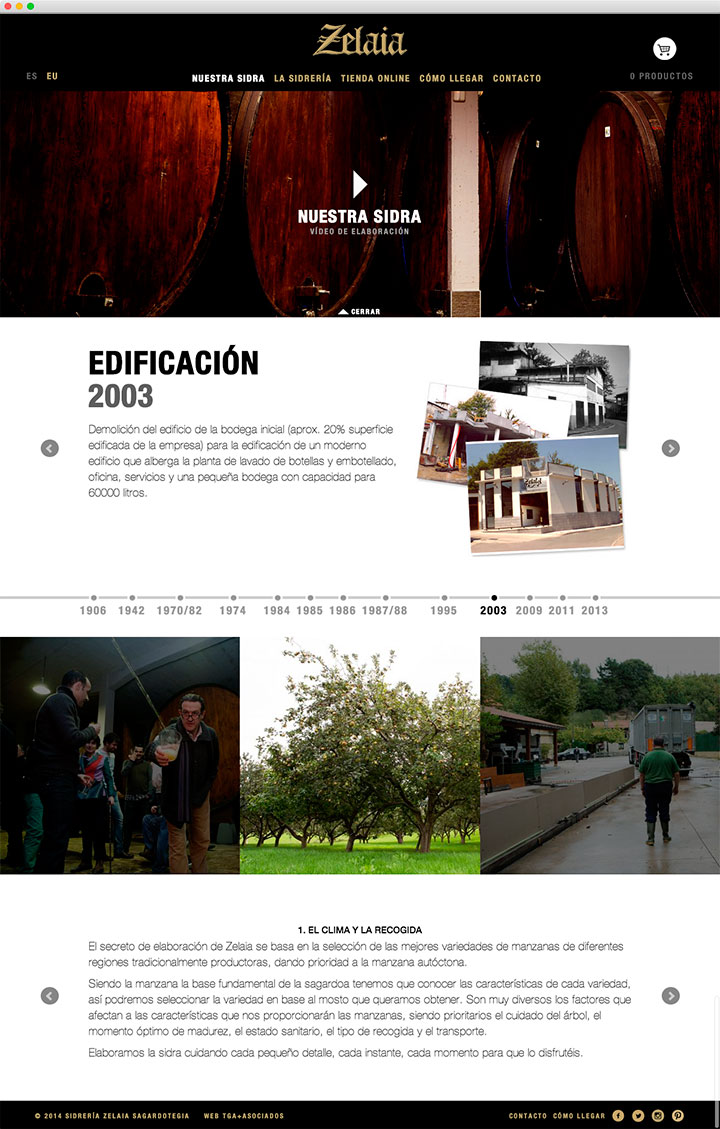
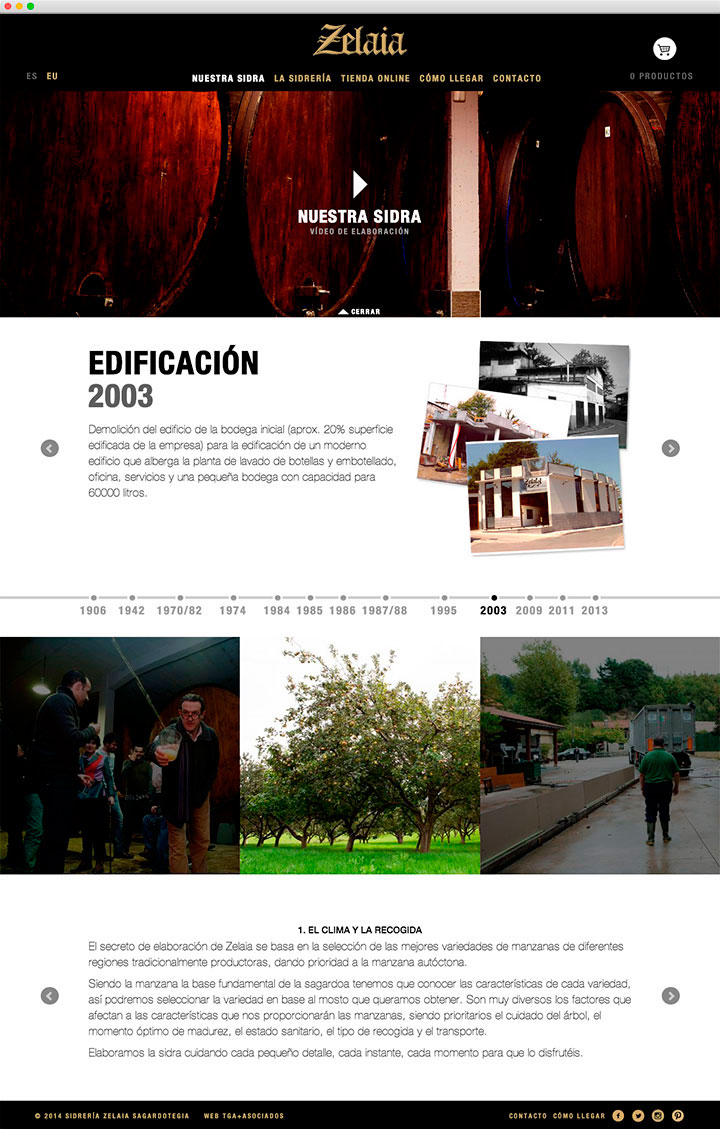
Adjust some styles

Changed region(s): [[0.3361, 0.744, 0.6722, 0.775], [0.2139, 0.062, 0.3056, 0.124], [0.9778, 0.961, 1.0, 1.0]]

diff --git a/web/js/main.js b/web/js/main.js
@@ -1,4 +1,56 @@
+// Avoid `console` errors in browsers that lack a console.
+(function() {
+    'use strict';
+
+    var method;
+    var noop = function () {};
+    var methods = [
+        'assert', 'clear', 'count', 'debug', 'dir', 'dirxml', 'error',
+        'exception', 'group', 'groupCollapsed', 'groupEnd', 'info', 'log',
+        'markTimeline', 'profile', 'profileEnd', 'table', 'time', 'timeEnd',
+        'timeStamp', 'trace', 'warn'
+    ];
+    var length = methods.length;
+    var console = (window.console = window.console || {});
+
+    while (length--) {
+        method = methods[length];
+
+        // Only stub undefined methods.
+        if (!console[method]) {
+            console[method] = noop;
+        }
+    }
+})();
+
 $(document).ready(function() {
+
+    // ==================== HEADER SIZE ==================== //
+    var $navbar = $('.navbar'),
+        opts = {
+            height: '35px'
+        },
+        speed = 600;
+
+    $(function(){
+        $navbar.data('size','big');
+    });
+
+    $(window).scroll(function() {
+        if($(document).scrollTop() > 0) {
+            if($navbar.data('size') === 'big') {
+                $navbar.data('size', 'small');
+                $navbar.find('.logo img').stop().animate(opts, speed);
+            }
+        } else {
+            if($navbar.data('size') === 'small') {
+                $navbar.data('size', 'big');
+                $navbar.find('.logo img').stop().animate({
+                    height: '75px'
+                }, speed);
+            }
+        }
+    });
 
     // ==================== WOW ANIMATION DELAY ==================== //
     wow = new WOW({
@@ -14,15 +66,21 @@ $(document).ready(function() {
         itemSelector: '.project'
     });
 
+    // ==================== SCROLL ==================== //
     $('a[href*=#]:not([href=#])').click(function() {
+        var $this = $(this),
+            offset = $('body').data('offset');
+
         if (location.pathname.replace(/^\//,'') === this.pathname.replace(/^\//,'')
             && location.hostname == this.hostname)
         {
             var target = $(this.hash);
+
+            offset = (parseInt(target.offset().top) === offset)? offset : 105;
             target = target.length ? target : $('[name=' + this.hash.slice(1) +']');
             if (target.length) {
                 $('html, body').animate({
-                    scrollTop: parseInt(target.offset().top) - $('.navbar').height()
+                    scrollTop: parseInt(target.offset().top) - parseInt(offset)
                 }, 700);
 
                 return false;

diff --git a/web/css/style.css b/web/css/style.css
@@ -6,6 +6,7 @@
 /* ========== GENERAL STYLES ========== */
 
 body {
+    position: relative;
     font-size: 13px;
     color: #f0f0f0;
     background-color: #fff;
@@ -243,6 +244,12 @@ body {
     border-radius: 0;
 }
 
+.thumbnail h3 {
+    width: 80%;
+    border-top: 1px solid #f2f2f2;
+    padding-top: 10px;
+}
+
 /* ========== BOOKS ========== */
 .books {
     width: 100%;
@@ -274,6 +281,9 @@ footer p {
         font-size: 1.1em;
         float: none;
         display: inline-block;
+        -webkit-transition: all 0.5s;
+        -moz-transition: all 0.5s;
+        transition: all 0.5s;
     }
     .navbar-nav>li {
         float: none;
@@ -285,6 +295,29 @@ footer p {
     .navbar-default .navbar-nav>.active>a, .navbar-default .navbar-nav>.active>a:hover, .navbar-default .navbar-nav>.active>a:focus {
         float: none;
         display: inline-block;
+    }
+    .navbar.small .container {
+        position: relative;
+    }
+    .small .logo-wrapper {
+        -webkit-transition: all 2s ease;
+        -moz-transition: all 2s ease;
+        -ms-transition: all 2s ease;
+        -o-transition: all 2s ease;
+        transition: all 2s ease;
+
+        position: absolute;
+        left: 0;
+        top: 0;
+    }
+    .small .menu-wrapper {
+        -webkit-transition: all 2s ease;
+        -moz-transition: all 2s ease;
+        -ms-transition: all 2s ease;
+        -o-transition: all 2s ease;
+        transition: all 2s ease;
+
+        position: absolute;
     }
 }
 
